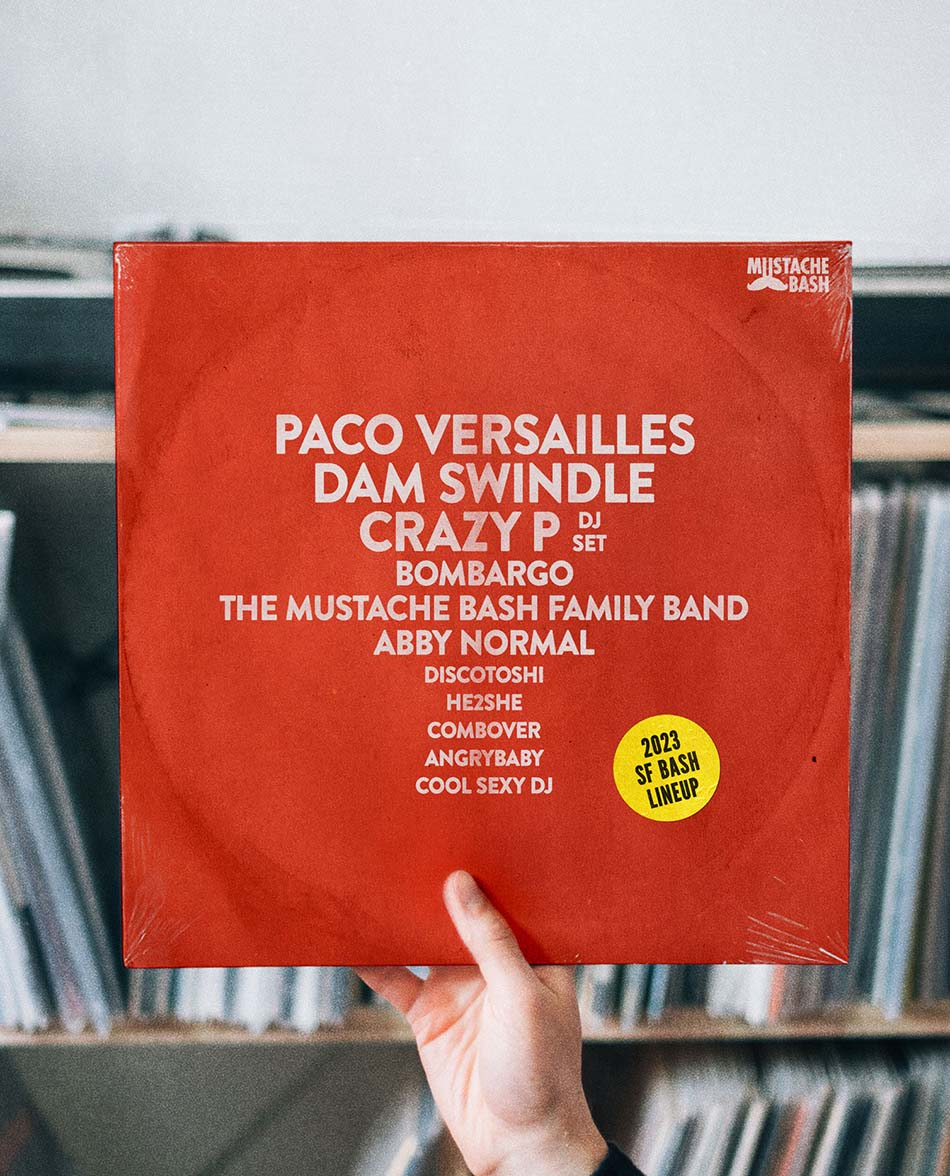
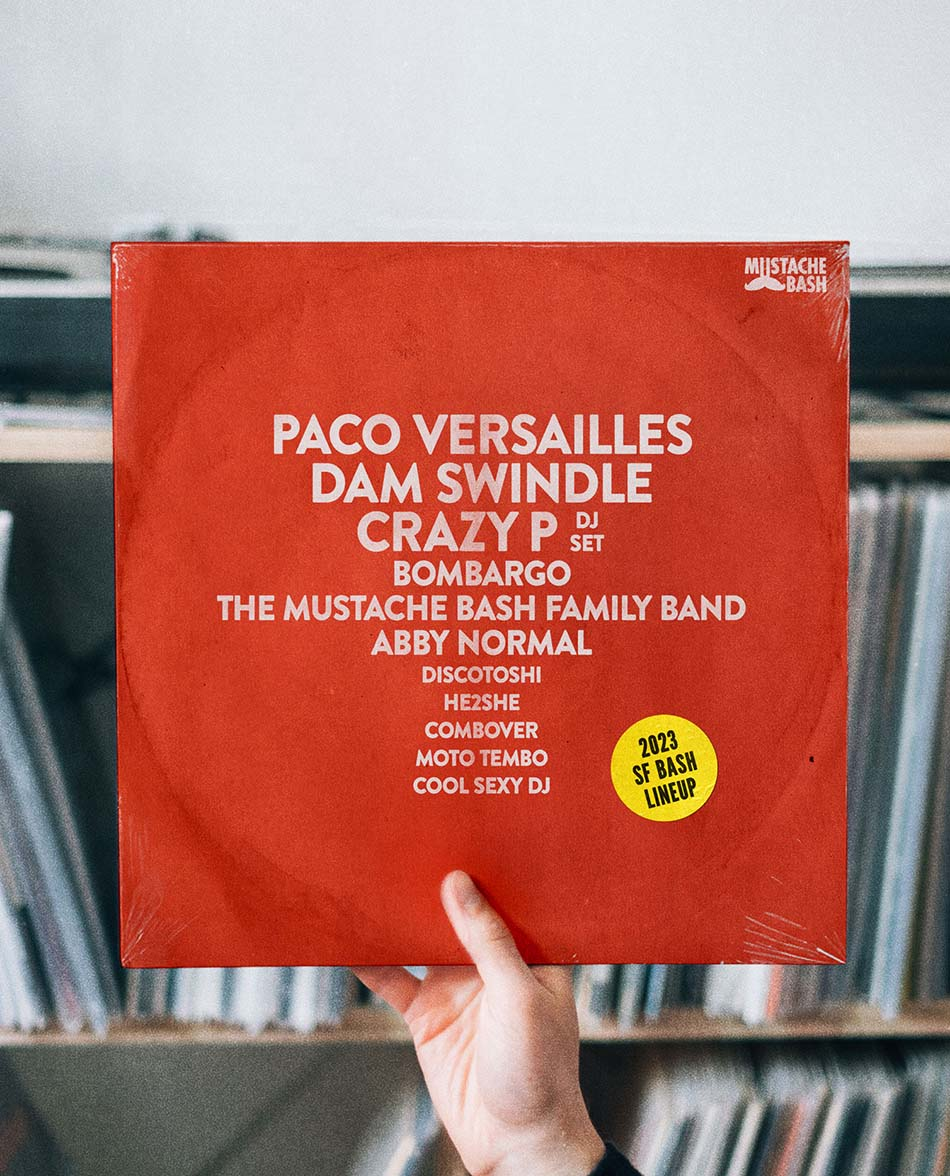
swap out angrybaby for moto tembo

diff --git a/src/san-francisco.html b/src/san-francisco.html
@@ -86,7 +86,7 @@
 				},
 				{
 					"@type": "PerformingGroup",
-					"name": "Angrybaby"
+					"name": "Moto Tembo"
 				},
 				{
 					"@type": "PerformingGroup",
@@ -355,16 +355,15 @@
  						</p>
  					</div>
 
- 					<div class="band" id="angrybaby">
- 						<div class="img-wrap"><img src="./img/sf/band-angrybaby.jpg" alt="Angrybaby"></div>
- 						<h4>Angrybaby</h4>
+ 					<div class="band" id="moto-tembo">
+ 						<div class="img-wrap"><img src="./img/sf/band-moto-tembo.jpg" alt="Moto Tembo"></div>
+ 						<h4>Moto Tembo</h4>
  						<p>
- 							Using his classical training in piano to create heartfelt dancefloor anthems, Angrybaby is crafting his own path in electronic music. At 24 years old, he lives in San Francisco and is an influential name within the local DJ scene, hosting and curating a weekly event at White Rabbit called Saturday Social.
+ 							Moto Tembo, is a curator of jams. This Producer/DJ is making some of your favorites edits you didn't even know you wanted. He mixes his unique taste in music over sparkly synths, sweet grooves and tasty basslines. Not your average DJ, Moto Tombo will surely cultivate a moment in space and time with jams that stick like a PB and J.
  						</p>
  						<div class="icons-row">
- 							<a class="link-icon" href="https://open.spotify.com/artist/5TAU3fcCF32FqKMrdbXfRr" target="_blank"><img src="./img/icons/spotify.svg" alt="Spotify"></a>
- 							<a class="link-icon" href="https://www.instagram.com/angrybaby_music/" target="_blank"><img src="./img/icons/instagram.svg" alt="Instagram"></a>
- 							<a class="link-icon" href="https://solo.to/angrybaby" target="_blank"><img src="./img/icons/www.svg" alt="Website"></a>
+ 							<a class="link-icon" href="https://soundcloud.com/moto-tembo" target="_blank"><img src="./img/icons/spotify.svg" alt="Soundcloud"></a>
+ 							<a class="link-icon" href="https://www.instagram.com/mototembo" target="_blank"><img src="./img/icons/instagram.svg" alt="Instagram"></a>
  						</div>
  					</div>
  				</div>
@@ -391,7 +390,7 @@
   				<div class="friday">
   					<h4>Friday</h4>
   					<dl>
- 						<dt>Angrybaby</dt>
+ 						<dt>Moto Tembo</dt>
  						<dd>4:00 pm</dd>
 
  						<dt>Cool Sexy DJ</dt>
